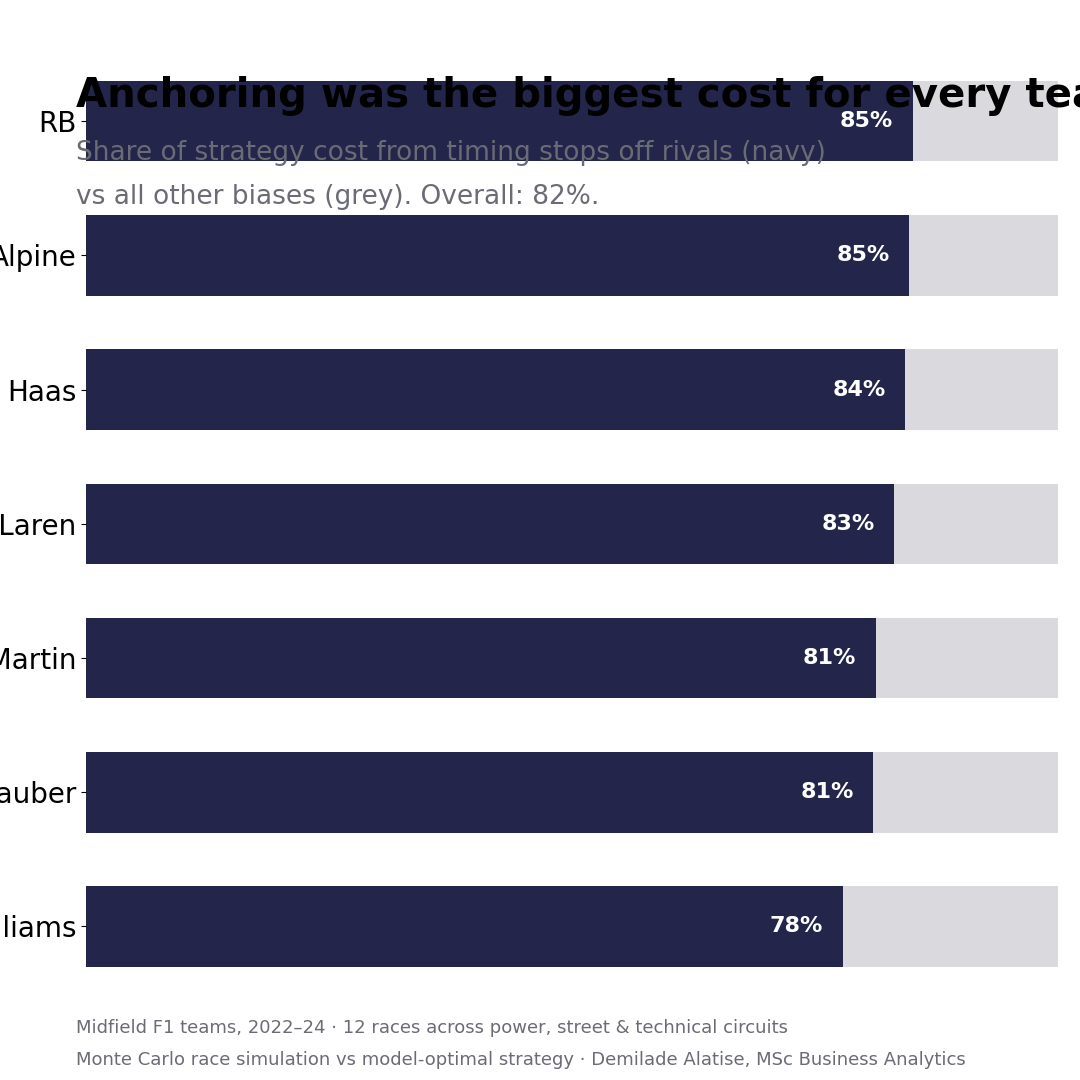
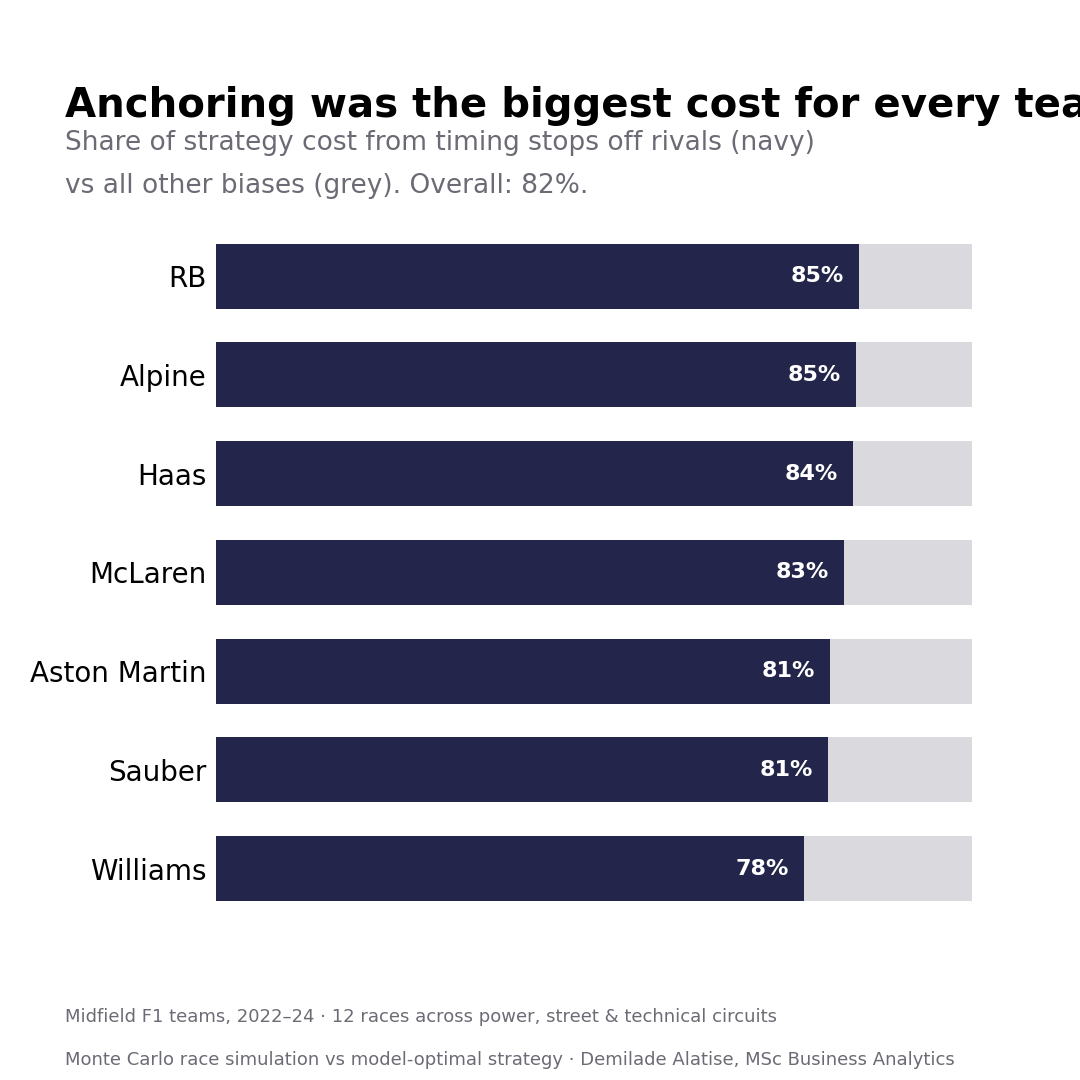
Fix LinkedIn anchoring figure layout (margins, clipped labels)

diff --git a/src/viz/linkedin_anchoring_share.py b/src/viz/linkedin_anchoring_share.py
@@ -134,6 +134,9 @@ def main() -> None:
     fig.patch.set_facecolor("white")
     ax.set_facecolor("white")
     
+    # Adjust layout to reserve space for titles and labels
+    fig.subplots_adjust(left=0.20, right=0.90, top=0.79, bottom=0.15)
+    
     # Colors
     grey_bg = "#d9d9de"
     navy_fg = "#23264a"
@@ -145,10 +148,10 @@ def main() -> None:
     shares = team_stats["anchoring_share"].tolist()
     
     # Background grey bars
-    ax.barh(y_pos, [1.0] * len(team_stats), color=grey_bg, height=0.6)
+    ax.barh(y_pos, [1.0] * len(team_stats), color=grey_bg, height=0.66)
     
     # Navy anchoring share bars
-    bars = ax.barh(y_pos, shares, color=navy_fg, height=0.6)
+    bars = ax.barh(y_pos, shares, color=navy_fg, height=0.66)
     
     # Add percentage labels inside the right end of navy bars
     for i, (team, share) in enumerate(zip(teams, shares)):
@@ -164,6 +167,7 @@ def main() -> None:
     ax.set_yticks(y_pos)
     ax.set_yticklabels(teams, fontsize=20)
     ax.set_ylim(-0.5, len(team_stats) - 0.5)
+    ax.tick_params(left=False)
     
     # X-axis styling
     ax.set_xlim(0, 1.0)
@@ -178,7 +182,7 @@ def main() -> None:
     
     # Title
     fig.text(
-        0.07, 0.93,
+        0.06, 0.92,
         "Anchoring was the biggest cost for every team",
         fontsize=29, fontweight="bold", color="black",
         va="top", ha="left"
@@ -190,13 +194,13 @@ def main() -> None:
     subtitle_line2 = f"vs all other biases (grey). Overall: {overall_pct}%."
     
     fig.text(
-        0.07, 0.87,
+        0.06, 0.88,
         subtitle_line1,
         fontsize=19, color=grey_text,
         va="top", ha="left"
     )
     fig.text(
-        0.07, 0.83,
+        0.06, 0.84,
         subtitle_line2,
         fontsize=19, color=grey_text,
         va="top", ha="left"
@@ -207,13 +211,13 @@ def main() -> None:
     footer_line2 = "Monte Carlo race simulation vs model-optimal strategy · Demilade Alatise, MSc Business Analytics"
     
     fig.text(
-        0.07, 0.04,
+        0.06, 0.05,
         footer_line1,
         fontsize=13, color=grey_text,
         va="bottom", ha="left"
     )
     fig.text(
-        0.07, 0.01,
+        0.06, 0.01,
         footer_line2,
         fontsize=13, color=grey_text,
         va="bottom", ha="left"
@@ -224,8 +228,7 @@ def main() -> None:
     out_dir.mkdir(exist_ok=True)
     out_path = out_dir / "linkedin_anchoring_share.png"
     
-    # Adjust layout and save without tight_layout to preserve exact dimensions
-    plt.subplots_adjust(left=0.08, right=0.98, top=0.95, bottom=0.08)
+
     plt.savefig(out_path, dpi=dpi, facecolor="white", pad_inches=0)
     print(f"\n✓ Saved figure to {out_path}")
     
